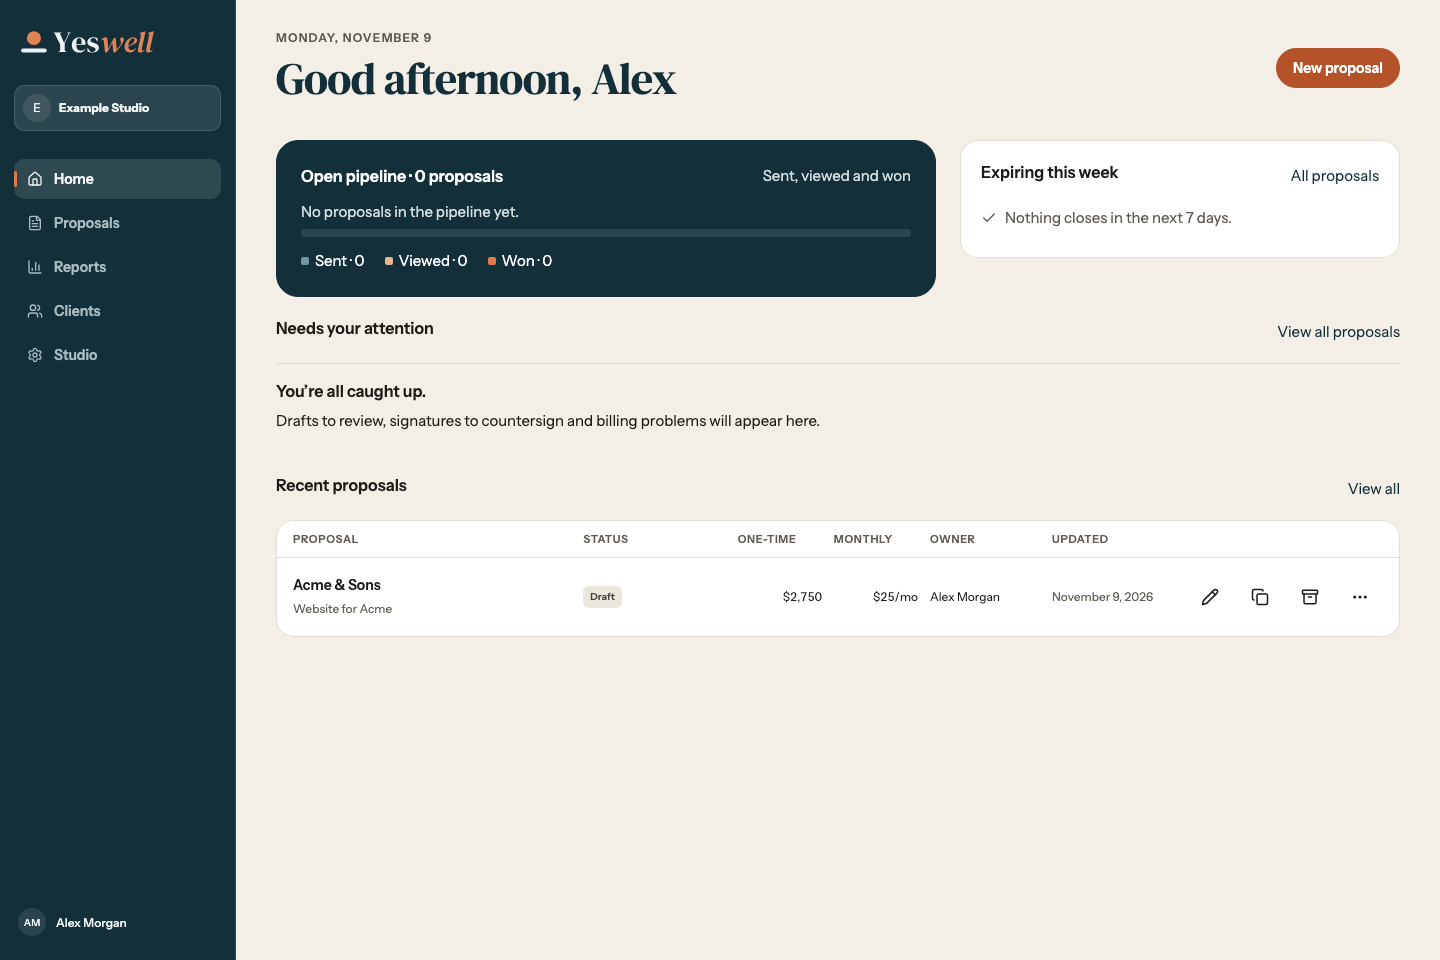
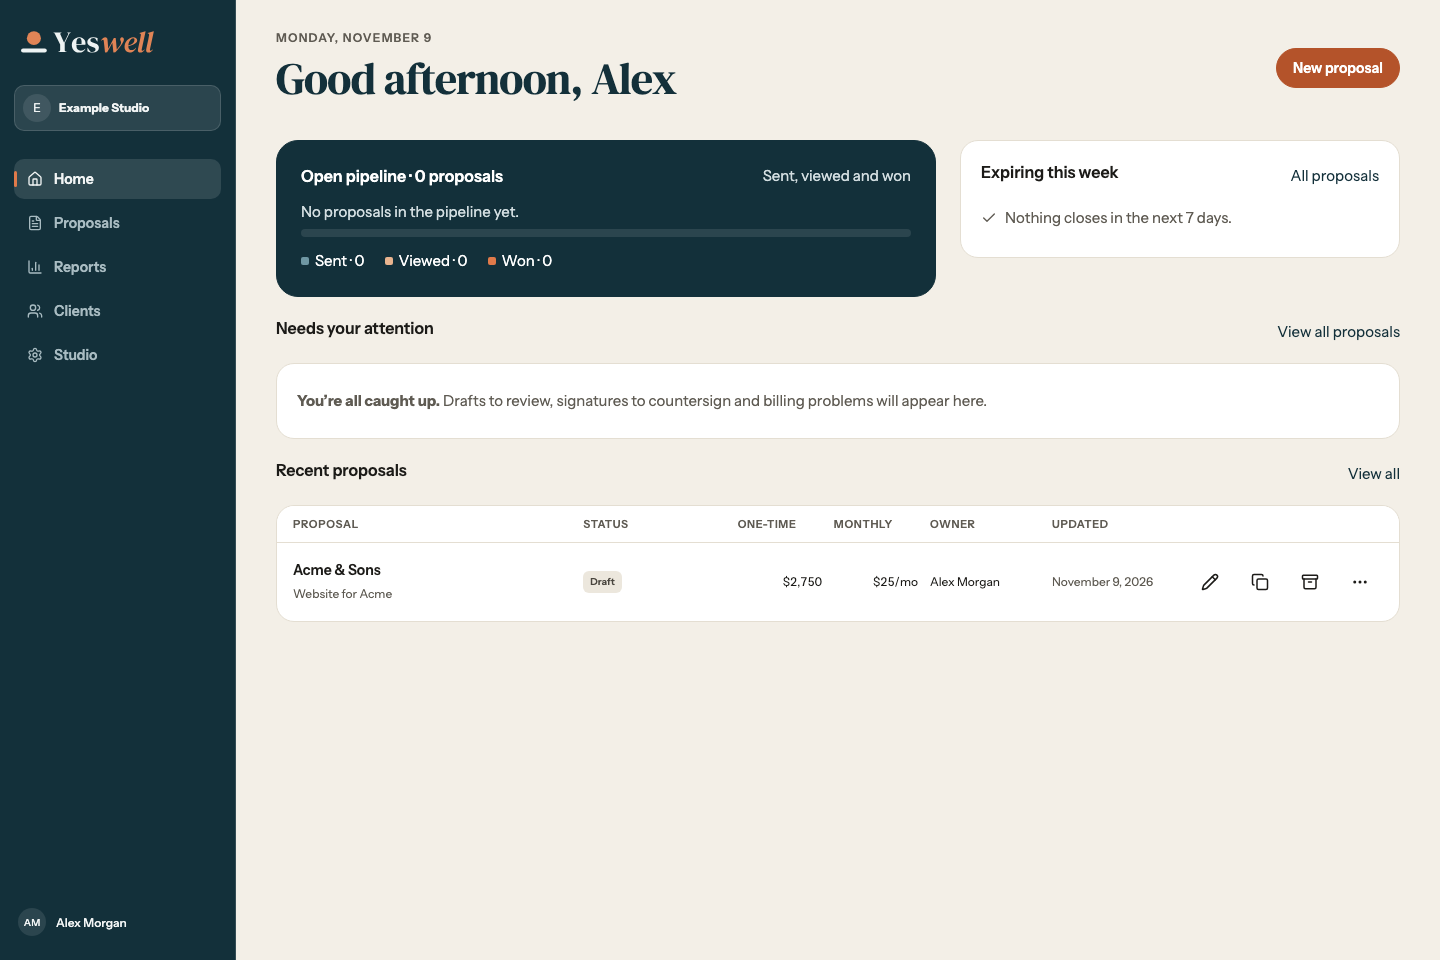
Keep empty attention in its card and fix singular counts

diff --git a/src/components/studio.tsx b/src/components/studio.tsx
@@ -1,4 +1,5 @@
 "use client";
+import { withCount } from "../lib/count-label";
 import { StaffTable, StaffTableHead, StaffTableEmpty } from "./staff-table";
 import { ProviderMark } from "./provider-brand";
 import { chromeIcons } from "./staff-icons";
@@ -386,7 +387,7 @@ export function CatalogStudio({ data, run }: { data: Data; run: Runner }) {
                 </span>
                 <span>
                   {i.schedule
-                    ? `${i.schedule.after_paid_invoices} payments, then ${money(i.schedule.then.amount, data.settings?.currency)}/mo`
+                    ? `${withCount(i.schedule.after_paid_invoices, "payment")}, then ${money(i.schedule.then.amount, data.settings?.currency)}/mo`
                     : "—"}
                   {i.min_term_months && (
                     <small>{i.min_term_months}-month minimum</small>
@@ -833,7 +834,7 @@ function CatalogItem({
             {minimum && <p>{minimum}-month minimum commitment.</p>}
             {count && (
               <p>
-                After {count} paid invoices:{" "}
+                After {withCount(Number(count), "paid invoice")}:{" "}
                 {money(Math.round(Number(then || 0) * 100))} per recurring
                 period.
               </p>
@@ -1354,7 +1355,7 @@ function TemplatesStudioContent({
     if (
       !(await confirmDialog({
         title: `Delete block “${value.name}”?`,
-        description: `Used in ${value.used_in?.templates.length ?? 0} linked templates. Removes it from Saved blocks and unlinks those copies. Copies already in templates and proposals stay as they are.`,
+        description: `Used in ${withCount(value.used_in?.templates.length ?? 0, "linked template")}. Removes it from Saved blocks and unlinks those copies. Copies already in templates and proposals stay as they are.`,
         confirmLabel: "Delete block",
         cancelLabel: "Cancel",
         destructive: true,
@@ -3623,7 +3624,7 @@ export function ConnectionsStudio({
               ? "Sandbox configured"
               : "Setup needed",
       line: "One-time invoices stay in review until a sandbox connection is ready.",
-      detail: `${data.proposals.filter((p) => p.billing_links.some((l) => l.provider === "qbo" && l.status !== "succeeded")).length} proposals with invoices to review`,
+      detail: `${withCount(data.proposals.filter((p) => p.billing_links.some((l) => l.provider === "qbo" && l.status !== "succeeded")).length, "proposal")} with invoices to review`,
       action:
         qbo?.state === "reconnect"
           ? "Reconnect QuickBooks"

diff --git a/e2e/staff-card-audit.spec.ts b/e2e/staff-card-audit.spec.ts
@@ -156,6 +156,15 @@ test.describe("Staff content surfaces", () => {
     await page.goto("/");
     await table(page.locator(".proposal-rows.staff-table"));
     await surface(page.locator(".home-expiring"));
+    const attention = page.getByRole("region", {
+      name: "Needs your attention",
+    });
+    const attentionCard = attention.locator(".home-attention-list");
+    await surface(attentionCard);
+    await expect(attentionCard).toHaveCSS("border-top-width", "1px");
+    await expect(attentionCard).toHaveText(
+      "You’re all caught up. Drafts to review, signatures to countersign and billing problems will appear here.",
+    );
     await screenshot(page, "home-recent-1440");
 
     for (const view of listViews) {
@@ -165,6 +174,7 @@ test.describe("Staff content surfaces", () => {
     await screenshot(page, "proposals-empty-1440");
     await page.goto("/proposals?view=all");
     await table(page.locator(".proposal-rows.staff-table"));
+    await expect(page.getByText("1 proposal", { exact: true })).toBeVisible();
     await screenshot(page, "proposals-1440");
 
     await page.goto(`/proposals/${f.draft.id}?view=record`);
@@ -204,6 +214,20 @@ test.describe("Staff content surfaces", () => {
     for (const card of await page.locator(".report-card").all())
       await surface(card);
     await expect(page.locator(".report-card")).toHaveCount(6);
+
+    await page.setViewportSize({ width: 375, height: 900 });
+    await page.route("**/api/content_library", async (route) => {
+      const blocks = await f.repo.entities("content_library");
+      await route.fulfill({ json: blocks.slice(0, 1) });
+    });
+    await page.goto("/studio");
+    const studioNav = page.getByRole("navigation", {
+      name: "Studio navigation",
+    });
+    await expect(
+      studioNav.getByText("1 template · 1 saved block"),
+    ).toBeVisible();
+    await page.setViewportSize({ width: 1440, height: 960 });
 
     await page.goto("/login");
     await surface(page.locator(".account-frame .card"));

diff --git a/e2e/studio-v3.spec.ts b/e2e/studio-v3.spec.ts
@@ -1,6 +1,7 @@
 import { test, expect, type Page } from "@playwright/test";
 import AxeBuilder from "@axe-core/playwright";
 import { mkdirSync } from "node:fs";
+import sharp from "sharp";
 import { setup, staff } from "../tests/helpers";
 import { emailTemplates } from "../src/lib/email-templates";
 import { eventLabel } from "../src/lib/event-label";
@@ -237,6 +238,8 @@ test("template cards show inset preview sheets with resolved titles at every wid
     await expect(band).toHaveCSS("overflow", "hidden");
     await expect(band).toHaveCSS("background-color", "rgb(244, 247, 247)");
     await expect(band).toHaveCSS("border-bottom-width", "1px");
+    await expect(band).toHaveCSS("border-bottom-style", "solid");
+    await expect(band).toHaveCSS("border-bottom-color", "rgb(228, 222, 210)");
     await expect(band).toHaveCSS("padding", "22px 22px 0px");
     await expect(paper).toHaveCSS("border-radius", "3px 3px 0px 0px");
     await expect(paper).toHaveCSS("padding", "20px 22px");
@@ -261,6 +264,10 @@ test("template cards show inset preview sheets with resolved titles at every wid
       "400",
     );
     await expect(paper).toHaveCSS("background-color", "rgb(255, 255, 255)");
+    await expect(paper).toHaveCSS(
+      "box-shadow",
+      "rgb(228, 222, 210) 0px 0px 0px 1px, rgba(19, 48, 58, 0.08) 0px 6px 16px 0px",
+    );
     await expect(paper.locator(".template-thumbnail-accent")).toHaveCSS(
       "background-color",
       "rgb(54, 92, 74)",
@@ -368,6 +375,13 @@ test("template cards show inset preview sheets with resolved titles at every wid
       await page.screenshot({
         path: `${directory}/templates-${theme}-1440.png`,
       });
+      if (theme === "light") {
+        const crop = await cards.first().screenshot({ animations: "disabled" });
+        const { width } = await sharp(crop).metadata();
+        await sharp(crop)
+          .resize(width * 2)
+          .toFile(`${directory}/template-card-closeup.png`);
+      }
     }
   }
 });

diff --git a/src/lib/repository.ts b/src/lib/repository.ts
@@ -1,3 +1,4 @@
+import { withCount } from "./count-label";
 import {
   questionsReadable,
   questionsWritable,
@@ -36,6 +37,9 @@ import {
   type Template,
   type SavedBlock,
 } from "./model";
+const clientDeleteBlockedMessage = (count: number) =>
+  `Has ${withCount(count, "proposal")} — archive ${count === 1 ? "the proposal" : "them"} or keep the client`;
+
 export type EntityTable =
   | "email_templates"
   | "email_log"
@@ -690,11 +694,7 @@ export class MemoryRepository implements Repository {
     );
     if (!client) throw new AppError(404, "Client not found");
     const count = (await this.list()).filter((p) => p.client.id === id).length;
-    if (count)
-      throw new AppError(
-        409,
-        `Has ${count} proposals — archive them or keep the client`,
-      );
+    if (count) throw new AppError(409, clientDeleteBlockedMessage(count));
     this.catalog.get("clients")!.delete(id);
     await this.put("workspace_events", {
       id: crypto.randomUUID(),
@@ -976,11 +976,7 @@ export class LocalRepository extends MemoryRepository {
       const count = (await super.list()).filter(
         (p) => p.client.id === id,
       ).length;
-      if (count)
-        throw new AppError(
-          409,
-          `Has ${count} proposals — archive them or keep the client`,
-        );
+      if (count) throw new AppError(409, clientDeleteBlockedMessage(count));
       this.catalog.get("clients")!.delete(id);
       await super.put("workspace_events", {
         id: crypto.randomUUID(),
@@ -1576,7 +1572,10 @@ export class SupabaseRepository implements Repository {
     if (error)
       throw new AppError(
         error.code === "23503" ? 409 : error.code === "P0002" ? 404 : 400,
-        error.message,
+        error.code === "23503" &&
+          error.message === "Has 1 proposals — archive them or keep the client"
+          ? clientDeleteBlockedMessage(1)
+          : error.message,
       );
   }
   async get(id: string) {

diff --git a/src/components/studio-v3.tsx b/src/components/studio-v3.tsx
@@ -1,4 +1,5 @@
 "use client";
+import { withCount } from "../lib/count-label";
 import { Select } from "./form-controls";
 import { eventLabel } from "../lib/event-label";
 import { useEffect, useState } from "react";
@@ -19,7 +20,7 @@ export function relativeTime(date?: string | null) {
   if (minutes < 1) return "just now";
   if (minutes < 60) return `${minutes} min ago`;
   if (minutes < 1440) return `${Math.floor(minutes / 60)} hr ago`;
-  return `${Math.floor(minutes / 1440)} days ago`;
+  return `${withCount(Math.floor(minutes / 1440), "day")} ago`;
 }
 export function StudioHome({ data }: { data: Data }) {
   const [emails, setEmails] = useState<EmailTemplate[] | null>(null);
@@ -43,11 +44,11 @@ export function StudioHome({ data }: { data: Data }) {
       : "",
   ].filter(Boolean);
   const statuses = [
-    `${data.templates.length} templates · ${data.library.length} saved blocks`,
+    `${withCount(data.templates.length, "template")} · ${withCount(data.library.length, "saved block")}`,
     clientEmails
-      ? `${clientEmails.length} client emails · ${clientEmails.filter((e) => e.updated_at).length} edited`
+      ? `${withCount(clientEmails.length, "client email")} · ${clientEmails.filter((e) => e.updated_at).length} edited`
       : "Loading email status…",
-    `${data.catalog.filter((i) => i.active && !i.legacy).length} products · ${sync ? `synced ${relativeTime(sync.created_at)}` : "not synced yet"}`,
+    `${withCount(data.catalog.filter((i) => i.active && !i.legacy).length, "product")} · ${sync ? `synced ${relativeTime(sync.created_at)}` : "not synced yet"}`,
     problems.join(" · ") ||
       (data.connections
         ? "Connections configured"

diff --git a/src/components/records.tsx b/src/components/records.tsx
@@ -1,4 +1,5 @@
 "use client";
+import { withCount } from "../lib/count-label";
 import { StaffTable, StaffTableHead, StaffTableEmpty } from "./staff-table";
 import { ChevronDown } from "lucide-react";
 import { chromeIcons } from "./staff-icons";
@@ -1426,16 +1427,13 @@ export function HomeV4({
           <h2 id="attention-title">Needs your attention</h2>
           <a href="/proposals">View all proposals</a>
         </header>
-        {attention.every((group) => !group.rows.length) && (
-          <div className="home-reference">
-            <h3>You’re all caught up.</h3>
-            <p>
-              Drafts to review, signatures to countersign and billing problems
-              will appear here.
-            </p>
-          </div>
-        )}
         <div className="home-attention-list">
+          {attention.every((group) => !group.rows.length) && (
+            <p className="home-attention-empty">
+              <strong>You’re all caught up.</strong> Drafts to review,
+              signatures to countersign and billing problems will appear here.
+            </p>
+          )}
           {attention.flatMap(({ kind, label, rows }) =>
             rows.map((p) => {
               const client = p.signers.find(
@@ -3324,7 +3322,8 @@ export function ClientsV4({
           </Button>
           {count > 0 && (
             <small id="client-delete-reason">
-              Has {count} proposals — archive them or keep the client
+              Has {withCount(count, "proposal")} — archive{" "}
+              {count === 1 ? "the proposal" : "them"} or keep the client
             </small>
           )}
         </DialogActions>

diff --git a/src/components/reports.tsx b/src/components/reports.tsx
@@ -1,5 +1,6 @@
 "use client";
 
+import { withCount } from "../lib/count-label";
 import { StaffNativeTable } from "./staff-table";
 import { ChevronDown } from "lucide-react";
 import {
@@ -711,7 +712,7 @@ function Trend({
   const step = Math.ceil(max / 4),
     top = step * 4;
   const totals = report.trend.reduce((n, row) => n + row.signed, 0);
-  const summary = `${report.sent} sent and ${totals} client signatures across ${report.trend.length} ${report.trend.length === 1 ? "month" : "months"}.`;
+  const summary = `${report.sent} sent and ${withCount(totals, "client signature")} across ${report.trend.length} ${report.trend.length === 1 ? "month" : "months"}.`;
   const dataLink = (date: string, kind: "sent" | "signed", value: number) => (
     <a
       href={link({

diff --git a/src/components/staff-app.tsx b/src/components/staff-app.tsx
@@ -1,4 +1,5 @@
 "use client";
+import { withCount } from "../lib/count-label";
 import { StaffTable, StaffTableEmpty, StaffNativeTable } from "./staff-table";
 import { Select } from "./form-controls";
 import { ReloadSafetyProvider } from "./reload-safety";
@@ -400,7 +401,7 @@ function StaffAppContent({
         <ReportProposalList data={data} drill={drill} filters={reportFilters} />
       );
     } else if (section === "proposals") {
-      subtitle = `${data.total} proposals`;
+      subtitle = withCount(data.total, "proposal");
       headerAction = (
         <div className="actions">
           <a className="btn" href="/reports">

diff --git a/src/components/connection-detail.tsx b/src/components/connection-detail.tsx
@@ -1,5 +1,6 @@
 "use client";
 
+import { withCount } from "../lib/count-label";
 import { StaffTable, StaffTableHead } from "./staff-table";
 import { useEffect, useRef, useState, type ReactNode } from "react";
 import {
@@ -225,8 +226,6 @@ const queueTitles: Record<Queue, string> = {
 };
 const proposalLink = (p: Proposal) => `/proposals/${p.id}`;
 const proposalLabel = (p: Proposal) => `${p.client.company} · ${p.title}`;
-const withCount = (count: number, singular: string, plural: string) =>
-  `${count} ${count === 1 ? singular : plural}`;
 
 export function BillingConnectionDetail({
   provider,

diff --git a/src/components/quote-editor.tsx b/src/components/quote-editor.tsx
@@ -1,4 +1,5 @@
 "use client";
+import { withCount } from "../lib/count-label";
 import { Select, Switch } from "./form-controls";
 import { useReloadGuard } from "./reload-safety";
 import { resolvedEditorText } from "../lib/editor-fields";
@@ -1458,7 +1459,8 @@ function QuoteEditorContent({
       />
       <p className="eyebrow legacy-sections-progress">AI review</p>
       <p>
-        {sections.length - pending.length} of {sections.length} sections
+        {sections.length - pending.length} of{" "}
+        {withCount(sections.length, "section")}
         reviewed
       </p>
       <progress

diff --git a/src/components/reassign-proposal.tsx b/src/components/reassign-proposal.tsx
@@ -1,4 +1,5 @@
 "use client";
+import { withCount } from "../lib/count-label";
 import { Select } from "./form-controls";
 import { DialogActions } from "./dialog-actions";
 import { useEffect, useState } from "react";
@@ -185,7 +186,8 @@ export function ReassignDialog({
             busy={busy}
             disabled={loading || !to || !selected.length}
           >
-            Reassign{proposal ? "" : ` ${selected.length} proposals`}
+            Reassign
+            {proposal ? "" : ` ${withCount(selected.length, "proposal")}`}
           </Button>
         </DialogActions>
       </form>

diff --git a/src/components/block-options.ts b/src/components/block-options.ts
@@ -1,3 +1,4 @@
+import { withCount } from "../lib/count-label";
 import { createColumns } from "../lib/columns";
 import type { Block } from "../lib/model";
 import type { SavedBlock } from "../lib/model";
@@ -150,7 +151,7 @@ export function blockOptions({
         name: s.name,
         description:
           s.type === "group"
-            ? `Group · ${savedBlocks(s).length} blocks`
+            ? `Group · ${withCount(savedBlocks(s).length, "block")}`
             : "Saved block",
         icon: "bookmark" as const,
         block: blocks[0],
